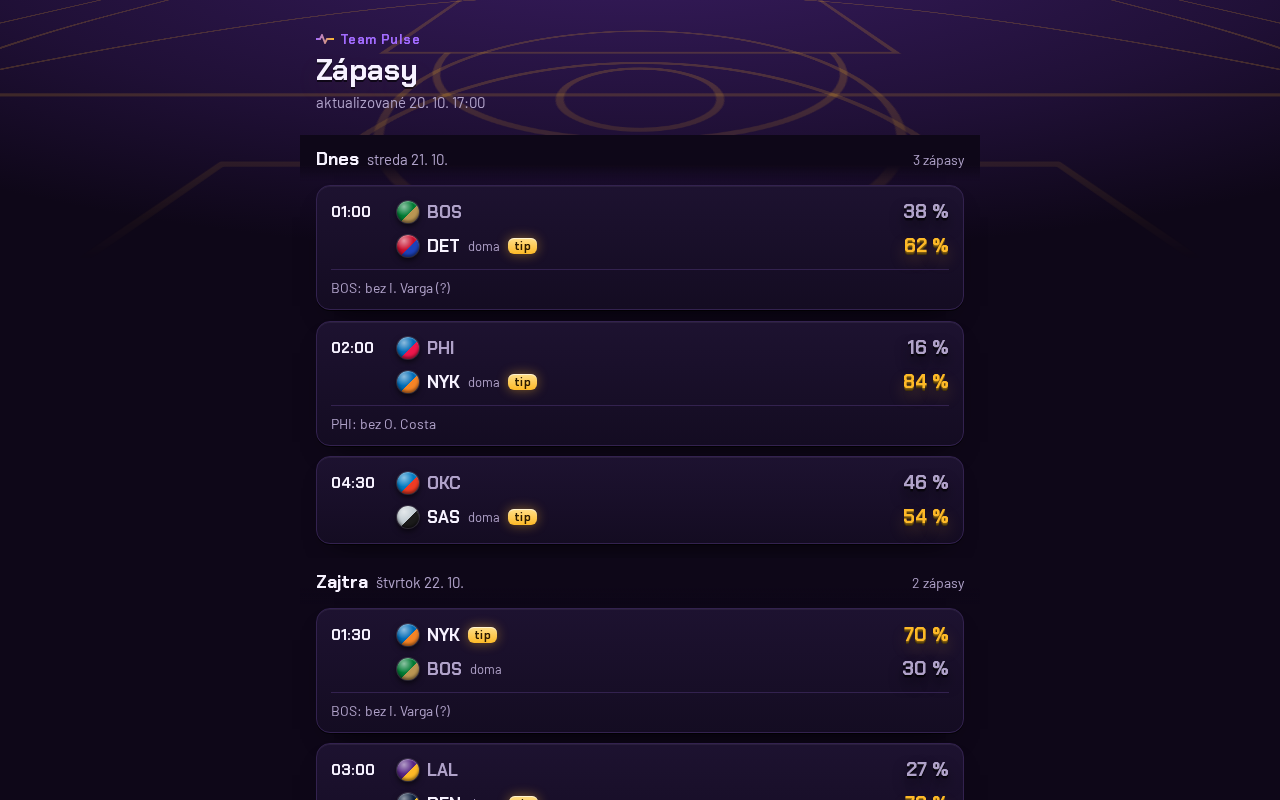
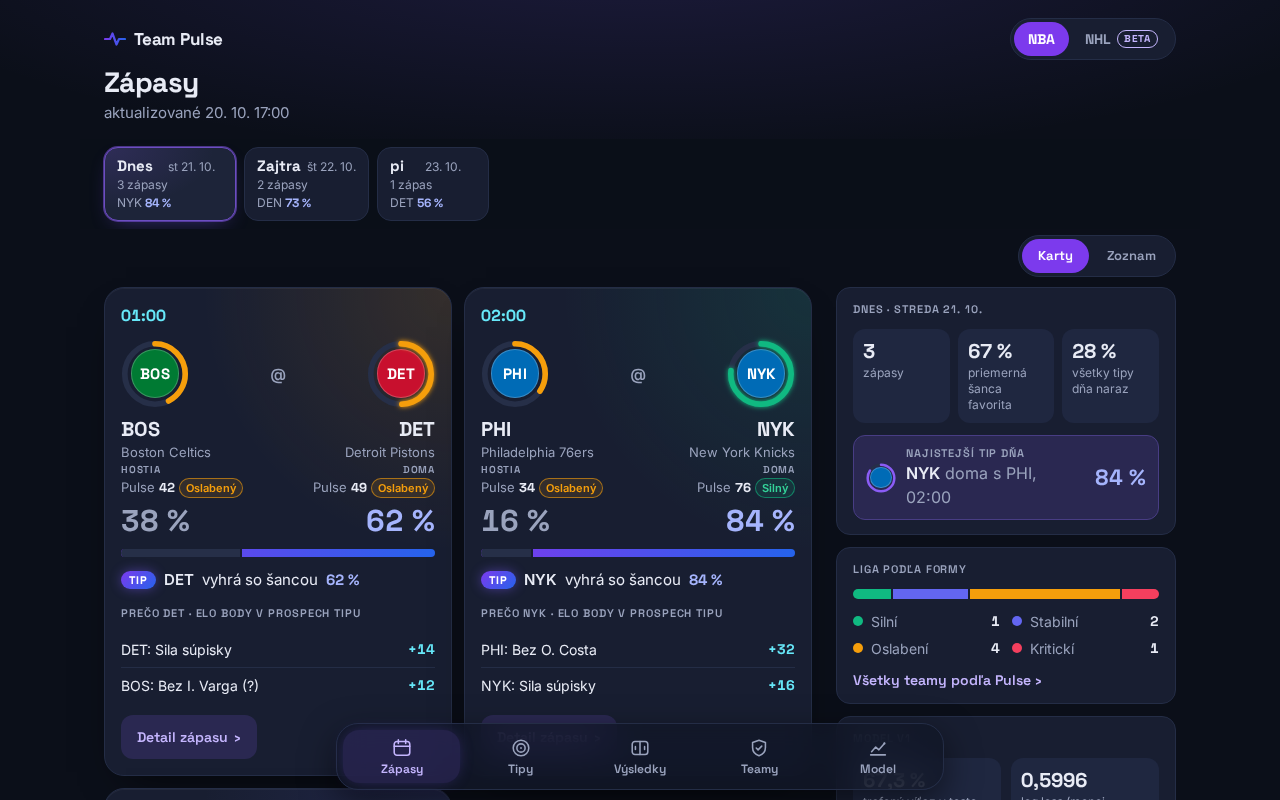
README: aktuálny stav k 20. 10. (redizajn, NHL, športy a brány, testy, screenshoty)

diff --git a/README.md b/README.md
@@ -4,22 +4,24 @@
 [![Appka](https://github.com/peterolah-qa/team-pulse/actions/workflows/app.yml/badge.svg)](https://github.com/peterolah-qa/team-pulse/actions/workflows/app.yml)
 [![Predikcie](https://github.com/peterolah-qa/team-pulse/actions/workflows/predict.yml/badge.svg)](https://github.com/peterolah-qa/team-pulse/actions/workflows/predict.yml)
 
-**V akom stave je NBA team pred zápasom?** Team Pulse to vyhodnotí v 4 úrovniach
-(Silný / Stabilný / Oslabený / Kritický), povie prečo, ako veľmi si je istý
-a čo sa zmení, ak otázny hráč nenastúpi.
+**V akom stave je team pred zápasom a kto má väčšiu šancu vyhrať?** Team Pulse to pri NBA vyhodnotí
+v 4 úrovniach (Silný / Stabilný / Oslabený / Kritický), povie prečo, ako veľmi si je istý a čo sa zmení,
+ak otázny hráč nenastúpi. NHL je v appke ako beta, F1 sa meria naostro mimo appky.
 
 **→ [peterolah-qa.github.io/team-pulse](https://peterolah-qa.github.io/team-pulse/)** (appka sa dá nainštalovať na mobil)
 
 > *In English:* a personal, non-commercial project. It is a web app (PWA) that rates each NBA team's
-> condition before a game. It uses an Elo model replicated from FiveThirtyEight, plus learned layers for
-> player availability, fatigue and roster strength. Everything runs on free data and free infrastructure.
+> condition before a game and gives the model's win probability, with NHL in beta. The NBA model is an Elo
+> model replicated from FiveThirtyEight plus learned layers for player availability, fatigue and roster
+> strength; the NHL model is Elo plus fatigue. Everything runs on free data and free infrastructure.
 > The project also serves as a QA-automation portfolio piece: see [Testing](#testovanie).
 
-![Mobilné obrazovky: Zápasy, Tipy, Výsledky, Zápas, Team](docs/screenshots/mobile.jpg)
+![Mobilné obrazovky: Zápasy (karty), Tipy, Teamy, detail NHL zápasu, Model](docs/screenshots/mobile.jpg)
 
 Team Pulse je len na orientáciu. **Neukazuje kurzy a neodkazuje na stávkové kancelárie.** „Tip“ v appke
 je team, ktorému model dáva väčšiu šancu na výhru; karta Tipy ich len zoradí podľa šance a ukáže,
-s akou šancou vyjdú všetky naraz. Nie je spojený s NBA ani s jej klubmi a nepoužíva ich logá.
+s akou šancou vyjdú všetky naraz. Nie je spojený s NBA, NHL ani s ich klubmi a nepoužíva ich logá
+(len farby dresov a skratky).
 
 ---
 
@@ -27,51 +29,83 @@ s akou šancou vyjdú všetky naraz. Nie je spojený s NBA ani s jej klubmi a ne
 
 | Obrazovka | Obsah |
 |---|---|
-| **Zápasy** | najbližšie zápasy po dňoch v našom čase: tip na víťaza, šanca oboch teamov aj ako pruh, chýbajúci hráči |
-| **Tipy** | favoriti zápasov, ktoré ešte nezačali, od najväčšej šance nadol; pri každom riadku a v grafe šanca, že vyjdú všetky tipy od prvého po daný (súčin šancí) |
+| **Zápasy** | pás dní (počet zápasov a najistejší tip dňa), zápasy ako **balíček kariet** (švih do strán, šípky, „Zápas 2 z 3“) alebo zoznam; na karte šanca, tip, Pulse teamov a najviac 4 dôvody v Elo bodoch v prospech tipu; vedľa prehľad dňa (šanca, že vyjdú všetky tipy dňa, najistejší tip, liga podľa formy, model) |
+| **Tipy** | favoriti zápasov, ktoré ešte nezačali, od najväčšej šance nadol; ukazovatele (najistejší tip, počet, všetky naraz) a graf: stĺpec = šanca tipu, čiara = šanca, že vyjdú všetky tipy od prvého po daný (súčin šancí) |
 | **Výsledky** | dohrané zápasy posledných dní so skóre a naším tipom pred zápasom (nevyšiel = červený); v detaile štatistiky hráčov |
-| **Zápas** | tip a šanca, prečo (najviac 4 dôvody), čo ak otázny hráč nenastúpi, forma teamov s grafom Pulse; vrstvy modelu po rozkliknutí |
+| **Zápas (NBA)** | tip a šanca, prečo (najviac 4 dôvody), čo ak otázny hráč nenastúpi, forma teamov s grafom Pulse; vrstvy modelu po rozkliknutí |
+| **Zápas (NHL)** | istota tipu, **prečo X %** v Elo bodoch (súčet presne sedí na zamknutú šancu), Elo trend, odpočinok a cestovanie, forma v sezóne, porovnanie s poradím v lige, vzájomné zápasy, chýbajúci hráči, zdieľanie a **Sledovať zápas** |
 | **Team** | Pulse a poradie podľa formy, najbližšie zápasy s našou šancou, posledné výsledky, súpiska so zranenými navrchu |
-| **Teamy** | liga rozdelená na Silní / Stabilní / Oslabení / Kritickí, poradie podľa Pulse |
-| **Model** | presnosť na neznámych zápasoch a kalibrácia; ako sa model učil po rozkliknutí |
+| **Teamy** | liga v 4 úrovniach Silní / Stabilní / Oslabení / Kritickí ako karusel so záložkami (na počítači 4 stĺpce); pri teame Pulse a posun oproti normálu s hlavným dôvodom |
+| **Model** | presnosť, log loss a Brier na neznámych zápasoch, kalibrácia, prínos každej vrstvy modelu; váhy po rozkliknutí |
 
-**NHL (beta)** – prepínač NBA / NHL hore: zápasy, tipy, výsledky (pp = po predĺžení, sn = po nájazdoch),
-detail zápasu (Elo, domáce prostredie, únava), liga podľa Ela a model. Tipy zamyká ranná NHL úloha na Macu
-(`archive/nhl/predictions`), GitHub Actions k nim pri každom builde pridá výsledky z API NHL
-(`team_pulse.nhl.app_data`). Označenie beta zmizne po prejdení brány G2-NHL (`docs/gate-nhl-G2.md`).
-
-Na počítači sa zoznamy rozložia do dvoch stĺpcov. Appka má tmavú aj svetlú tému podľa nastavenia systému.
+**Vzhľad („Luminous Pulse“):** tmavý analytický terminál, farba nesie význam. Úrovne formy majú vlastné
+farby (Silný smaragd, Stabilný indigo, Oslabený jantár, Kritický rubín), tip je fialovo-modrá žiara,
+nie stávková žltá. Odznak teamu je kruh vo farbách dresu so skratkou a prstencom: pri NBA Pulse, pri NHL
+šanca na výhru. Písmo Space Grotesk a Inter, číslice rovnako široké. Na počítači sú Zápasy prehľad
+v dvoch stĺpcoch. Appka má tmavú aj svetlú tému podľa nastavenia systému.
 
 **Pulse** = 50 + (Elo dnes − 1505) / 6, teda 50 znamená priemerný team. Hranice úrovní sú 70 / 50 / 30.
 Team, ktorý je dnes aspoň o 60 Elo pod svojím normálom (napr. mu chýba hviezda), padne o úroveň nižšie.
 
-![Desktop](docs/screenshots/desktop.png)
+**NHL (beta)** – prepínač NBA / NHL hore. Tipy zamyká ranná NHL úloha na Macu (`archive/nhl/predictions`),
+GitHub Actions k nim pri každom builde pridá výsledky z API NHL, zranenia z ESPN a kontext zápasu
+(`team_pulse.nhl.context`): z rozpisov klubov znova spočíta vstupy modelu a overí, že dajú presne zamknutú
+šancu, a doplní formu, odpočinok, vzájomné zápasy a štatistiky NHL (len keď počet zápasov a výhier sedí
+s rozpisom). Tlačidlo **Sledovať zápas** ukáže v appke výsledok a či tip vyšiel, keď sa zápas dohrá.
+Označenie beta zmizne po prejdení brány G2-NHL ([docs/gate-nhl-G2.md](docs/gate-nhl-G2.md)).
+
+![Počítač: Zápasy ako prehľad dňa](docs/screenshots/desktop.png)
+
+## Športy a brány
+
+Každý šport má vlastný model a vlastné brány, hranice sa stanovia pred meraním ([plán](docs/sporty.md)).
+
+| Šport | Model | Backtest (G0) | Ostré meranie (G2) | Stav |
+|---|---|---|---|---|
+| **NBA** | Elo + únava + hráči + sila súpisky | ✅ [G0](docs/gate-G0.md), [G1](docs/gate-G1.md) | 20. 10. – 2. 11. 2026, vyhodnotenie 3. 11. ([G2](docs/gate-G2.md)) | v appke |
+| **NHL** | Elo + únava | ✅ [G0-NHL](docs/gate-nhl-G0.md) | 13. – 26. 10. 2026, vyhodnotenie 27. 10. ([G2-NHL](docs/gate-nhl-G2.md)); predbežne k 20. 10. všetky kritériá splnené (51 zápasov, log loss 0,6449, hranica 0,7101) | v appke ako beta |
+| **F1** | Elo jazdca a tímu + kvalifikácia | ❌ [G0-F1](docs/gate-f1-G0.md): horší než kvalifikácia | model B naostro mimo appky, 6 pretekov 25. 10. – 6. 12. 2026 ([docs/gate-f1-shadow.md](docs/gate-f1-shadow.md)) | tip po kvalifikácii, `f1.yml` |
+| **Tipos extraliga** | hokejové Elo z NHL | – | – | čaká na súhlas SZĽH so zdrojom dát |
+
+Brány G2 vyhodnocuje skript nezávislým prepočtom z archívu, nie z reportu:
+`uv run python -m team_pulse.gate_g2 nba|nhl` → `reports/gate_g2_<šport>.md`. Počas G2 sa model,
+predikcie, archív, ranné úlohy ani `predict.yml` daného športu nemenia; appka (obrazovky) áno, len so
+zelenými testami.
 
 ## Ako to funguje
 
 ```mermaid
 flowchart LR
-  subgraph Mac["Mac (každý deň 10:00, launchd)"]
+  subgraph Mac["Mac (každé ráno, launchd)"]
     A[nba_api: výsledky, box score] --> B[Elo + hodnoty hráčov]
-    B --> C[state/state.json]
+    B --> C["state/state.json"]
+    N[API NHL: história a rozpis] --> M[NHL Elo + únava, tipy]
+    M --> T["archive/nhl/predictions"]
   end
-  C -->|git push| D
-  subgraph GH["GitHub Actions (každých 15 min)"]
-    D[ESPN: zranenia] --> E[predikcie → JSON]
-    E --> F[build appky: Vite + TypeScript]
+  C -->|"git push 10:00"| D
+  T -->|"git push 10:15"| D
+  subgraph GH["GitHub Actions (každých 15 min + cron-job.org)"]
+    D[ESPN: zranenia, výsledky] --> E[NBA predikcie + archív]
+    E --> K[NHL: výsledky, zranenia, kontext zápasu]
+    K --> F[build appky: Vite + TypeScript]
   end
   F --> G[GitHub Pages: PWA]
   H[Kontrola zdrojov, denne] -.->|chyba = e-mail| I((ja))
+  J["F1: sobota a nedeľa, f1.yml"] -.-> L["archive/f1, reports/f1_live.md"]
 ```
 
-- **Mac** robí ťažkú prácu, lebo stats.nba.com často blokuje požiadavky z cloudových serverov. Výsledkom je malý súbor stavu.
-- **GitHub Actions** každých 15 minút stiahne zranenia, prepočíta predpovede a nasadí appku.
-- **Archív predpovedí:** do 24 hodín pred zápasom cloud uloží predpoveď do `archive/predictions/`, kým zápas nezačne, prepisuje ju novšou; po začiatku sa už nemení. (GitHub plánované behy často vynecháva, preto široké okno.) Mac ráno doplní výsledky (`archive/results/`) a prepíše [reports/live.md](reports/live.md) s presnosťou, log loss a kalibráciou ostrej prevádzky.
-- **Výsledky:** na obrazovke Dnes sú dohrané zápasy posledných 3 hracích dní so skóre a naším tipom pred zápasom; v detaile štatistiky hráčov (minúty, body, doskoky, asistencie, bloky, zisky). Cloud ich berie z ESPN hneď po zápase (aj z prípravy) a ukladá do `archive/boxscores/`; ranný box score z Macu (nba_api) má prednosť.
+- **Mac** robí ťažkú prácu, lebo stats.nba.com často blokuje požiadavky z cloudových serverov. NBA úloha
+  (10:00) zapíše malý súbor stavu, NHL úloha (10:15) vyhodnotí noc a zamkne tipy na ďalšie zápasy.
+- **GitHub Actions** každých 15 minút stiahne zranenia, prepočíta predpovede a nasadí appku. Plánované behy
+  GitHubu často meškajú, preto ich každých 30 minút spúšťa aj cron-job.org (`workflow_dispatch`).
+- **Archív predpovedí:** do 24 hodín pred zápasom cloud uloží predpoveď do `archive/predictions/`, kým zápas nezačne, prepisuje ju novšou; po začiatku sa už nemení. Archív sa commitne pred buildom appky, takže chyba appky ho nepokazí. Mac ráno doplní výsledky (`archive/results/`) a prepíše [reports/live.md](reports/live.md) s presnosťou, log loss a kalibráciou ostrej prevádzky (NHL: [reports/nhl_live.md](reports/nhl_live.md)).
+- **Výsledky:** dohrané zápasy posledných dní so skóre a naším tipom pred zápasom; v detaile štatistiky hráčov (minúty, body, doskoky, asistencie, bloky, zisky). Cloud ich berie z ESPN hneď po zápase (aj z prípravy) a ukladá do `archive/boxscores/`; ranný box score z Macu (nba_api) má prednosť.
 - **Príprava:** prípravné zápasy appka ukazuje so štítkom PRÍPRAVA. Do Ela, únavy v sezóne ani do vyhodnotenia sa nerátajú; v archíve slúžia ako skúška pred sezónou.
 - **Náklady: 0 €.** Repo je verejné, Pages a Actions sú zadarmo a všetky zdroje dát sú voľné.
 
 ## Model
+
+### NBA
 
 Základ je **Elo podľa FiveThirtyEight**. Je replikovaný a overený proti ich archívu: K = 20 · (MOV + 3)^0,8 / (7,5 + 0,006 · D),
 výhoda domáceho prostredia a prenos medzi sezónami 0,75 · R + 0,25 · 1505. Nad ním sú naučené vrstvy:
@@ -96,26 +130,38 @@ Pre porovnanie: aj stávkové kancelárie trafia víťaza len v 68 – 70 % záp
 [reports/backtest.md](reports/backtest.md), [reports/learned.md](reports/learned.md) a v bránach
 [G0](docs/gate-G0.md), [G1](docs/gate-G1.md), [G3](docs/gate-G3.md).
 
+### NHL
+
+Hokejové Elo (K 6, domáca výhoda 30, prenos do sezóny 0,8) + **únava** (back-to-back, 3. zápas za 4 dni,
+odpočinok, posun pásma na východ, dĺžka výjazdu), naučené na 21 612 zápasoch. Test 2023/24 – 2025/26:
+presnosť 57,6 %, log loss 0,6713 (samotné Elo 0,6730, „vždy domáci“ 54,3 %). Hokej je náhodnejší než basketbal.
+Zamietnuté, lebo nezlepšili log loss o 0,0005: Glicko-2 namiesto Ela, očakávaný aj skutočný brankár
+([reports/nhl_learned.md](reports/nhl_learned.md), [reports/nhl_glicko.md](reports/nhl_glicko.md),
+[reports/nhl_goalies.md](reports/nhl_goalies.md)).
+
 ## Testovanie
 
-Projekt je zároveň ukážka QA automatizácie. Testuje sa model, dáta aj appka:
+Projekt je zároveň ukážka QA automatizácie. Testuje sa model, dáta, prevádzka aj appka:
 
 | Čo | Ako | Kde |
 |---|---|---|
-| Vzorce Elo | unit testy s ručne spočítanými príkladmi | `tests/test_elo.py` |
+| Vzorce Elo | unit testy s ručne spočítanými príkladmi | `tests/test_elo.py`, `tests/test_nhl_elo.py` |
 | Vlastnosti modelu | property-based testy (Hypothesis): Elo je hra s nulovým súčtom, pravdepodobnosti sú v 0 – 1 a dávajú spolu 1 | `tests/test_elo_properties.py` |
 | Replikácia | porovnanie s archívom FiveThirtyEight od sezóny 2000/01 | `tests/test_replication_538.py` |
 | Únik dát z budúcnosti | žiadny vstup nesmie byť novší ako začiatok zápasu | `tests/test_no_leakage.py` |
-| Živé zdroje | kontraktové testy ESPN a NBA na uložených odpovediach, test, že sa nikdy nepoužijú kurzy | `tests/test_live_contracts.py` |
-| Prevádzka | denná kontrola zdrojov a čerstvosti stavu, pri chybe príde e-mail | `.github/workflows/health.yml` |
-| Appka E2E | Playwright na mobile (Pixel 7) aj desktope: dni v našom čase, tip a percentá spolu 100 %, výsledky (nevyšiel = červený), navigácia, prázdne a chybové stavy, vodorovné posúvanie na 360 px | `app/tests/e2e.spec.ts` |
-| Prístupnosť | axe-core, WCAG 2.1 A + AA, na každej obrazovke 0 porušení; ovládanie klávesnicou | `app/tests/a11y.spec.ts` |
-| Vizuálna regresia | screenshoty 8 obrazoviek × 2 zariadenia, pevný čas testu | `app/tests/visual.spec.ts` |
+| Živé zdroje | kontraktové testy ESPN a NBA na uložených skutočných odpovediach, test, že sa nikdy nepoužijú kurzy; NHL a F1 rovnako na uložených odpovediach API | `tests/test_live_contracts.py`, `tests/test_nhl_*.py`, `tests/test_f1*.py` |
+| Detail NHL zápasu | rozpis → skutočná predikcia → kontext: rozpad tipu musí dať presne zamknutú šancu, odpočinok rovnaké čísla ako model; sonda na skutočných tipoch | `tests/test_nhl_context.py`, `scripts/probe_nhl_context.py` |
+| Brány G2 | vyhodnotenie nezávislým prepočtom; testy, že upravený report sa odhalí | `tests/test_gate_g2.py` |
+| Prevádzka | denná kontrola zdrojov a čerstvosti stavu, pri chybe príde e-mail; poistka, že archív tipov sa naozaj pushol | `.github/workflows/health.yml`, `predict.yml` |
+| Appka E2E | Playwright na mobile (Pixel 7) aj desktope: dni v našom čase, tip a percentá spolu 100 %, pás dní, balíček kariet (švih, šípky, klávesnica), prehľad dňa, Teamy, výsledky (nevyšiel = červený), Sledovať zápas, zdieľanie, prázdne a chybové stavy, vodorovné posúvanie na 360 px | `app/tests/e2e.spec.ts`, `screens.spec.ts`, `nhl.spec.ts` |
+| Prístupnosť | axe-core, WCAG 2.1 A + AA, 16 obrazoviek v tmavej aj svetlej téme, 0 porušení; ovládanie klávesnicou | `app/tests/a11y.spec.ts` |
+| Vizuálna regresia | screenshoty 14 obrazoviek × 2 zariadenia, pevný čas testu | `app/tests/visual.spec.ts` |
 
-Lighthouse (mobil): **Performance 100 · Accessibility 100 · Best Practices 100 · SEO 100.**
+Spolu pytest 410 testov a Playwright 147 + 28 vizuálnych. Lighthouse (mobil) pri bráne G3:
+**Performance 100 · Accessibility 100 · Best Practices 100 · SEO 100.**
 
 CI beží pri každom pushi: ruff (lint + formát), pytest, typová kontrola, build a Playwright.
-Pred každým commitom sa spustí pre-commit (ruff, kontrola privátnych kľúčov a veľkých súborov).
+Pred každým commitom sa spustí pre-commit (ruff, kontrola privátnych kľúčov, veľkých súborov a koncov riadkov).
 Na GitHube je zapnutý secret scanning s push protection.
 
 ## Spustenie lokálne
@@ -124,16 +170,19 @@ Na GitHube je zapnutý secret scanning s push protection.
 # Python časť (Python 3.12, uv)
 uv sync
 uv run pytest
-uv run python -m team_pulse.state        # stav zo stiahnutých dát
-uv run python -m team_pulse.predict      # JSON pre appku → app/public/data
+uv run python -m team_pulse.state              # NBA stav zo stiahnutých dát
+uv run python -m team_pulse.predict            # NBA JSON pre appku → app/public/data
+uv run python -m team_pulse.nhl.daily          # NHL: vyhodnotenie noci + tipy (z Macu)
+uv run python -m team_pulse.nhl.app_data       # NHL JSON pre appku → app/public/data/nhl
+uv run python -m team_pulse.gate_g2 nba        # vyhodnotenie brány G2 (aj nhl)
 
 # appka (Node 22)
 cd app
 npm install
-npx playwright install chromium          # len prvýkrát, pre testy
-npm run dev                              # http://localhost:5173
-npm test                                 # E2E + prístupnosť
-npm run test:visual                      # vizuálna regresia (screenshoty sú z Linuxu/CI)
+npx playwright install chromium                # len prvýkrát, pre testy
+npm run dev                                    # http://localhost:5173
+npm test                                       # E2E + prístupnosť
+npm run test:visual                            # vizuálna regresia (screenshoty sú z Linuxu/CI)
 ```
 
 Ranné úlohy na Macu (launchd): NBA `bash scripts/install_daily.sh` (10:00), NHL tipy
@@ -142,37 +191,48 @@ Ranné úlohy na Macu (launchd): NBA `bash scripts/install_daily.sh` (10:00), NH
 ## Štruktúra
 
 ```
-src/team_pulse/     model (elo, players, schedule, learned), stav, predikcie, denná úloha
-src/team_pulse/live ESPN zranenia a výsledky, NBA rozpis, párovanie mien
-tests/              pytest + Hypothesis + fixtures živých zdrojov
-app/                PWA: Vite + TypeScript bez frameworku, Playwright testy
-models/v1.json      naučený model (váhy, kalibrácia, metriky)
-state/state.json    denný stav z Macu
-archive/            posledné predpovede pred zápasmi a výsledky z ESPN (cloud), výsledky pre report (Mac)
-reports/, docs/     backtest, naučené váhy, vyhodnotenia brán
+src/team_pulse/      NBA model (elo, players, schedule, learned), stav, predikcie, denná úloha, brány G2
+src/team_pulse/live  ESPN zranenia a výsledky, NBA rozpis, párovanie mien
+src/team_pulse/nhl   NHL: história, Elo + únava, tipy, archív, dáta a kontext zápasu pre appku
+src/team_pulse/f1    F1: Jolpica, model B, tip po kvalifikácii, vyhodnotenie
+tests/               pytest + Hypothesis + uložené odpovede živých zdrojov
+app/                 PWA: Vite + TypeScript bez frameworku, Playwright testy
+models/              naučené modely (v1.json NBA, nhl_v1.json), váhy, kalibrácia, metriky
+state/               denný stav NBA z Macu, stav F1
+archive/             zamknuté tipy pred zápasmi a výsledky (NBA, nhl/, f1/)
+reports/, docs/      backtesty, ostré merania, brány, denník projektu (docs/journal.md)
 ```
 
 ## Dáta
 
-Voľné zdroje: [nba_api](https://github.com/swar/nba_api) (stats.nba.com), verejné endpointy ESPN (zranenia, výsledky)
-a archív Elo FiveThirtyEight ([Neil Paine](https://github.com/Neil-Paine-1/NBA-elo)).
-Stiahnuté dáta sa necommitujú. Mená hráčov v testoch a na screenshotoch sú vymyslené.
+Voľné zdroje: [nba_api](https://github.com/swar/nba_api) (stats.nba.com), verejné endpointy ESPN (zranenia, výsledky),
+API NHL (`api-web.nhle.com`, `api.nhle.com/stats`), [Jolpica](https://github.com/jolpica/jolpica-f1) pre F1
+(CC BY-NC-SA 4.0) a archív Elo FiveThirtyEight ([Neil Paine](https://github.com/Neil-Paine-1/NBA-elo)).
+Stiahnuté dáta sa necommitujú, len malé uložené odpovede pre testy. Mená hráčov v testoch a na screenshotoch
+sú vymyslené, čísla na screenshotoch sú testovacie.
 
 ## Obmedzenia
 
 - Backtest pozná absencie len z box score (kto nehral), nie zo skutočného injury reportu pred zápasom.
-- Kalibrácia je najslabšia v pásme 60 – 70 %.
+- Kalibrácia NBA je najslabšia v pásme 60 – 70 %.
 - Začiatok sezóny je pre model ťažší: v backteste mal v prvých 14 dňoch log loss 0,634 (celá sezóna 0,597),
   lebo Elo prenesené cez leto a nové súpisky sú menej presné (`reports/g2_reference.md`).
+- NHL model nepozná brankára ani zranenia (zranenia sú v appke len informácia), štartujúci brankár
+  ráno pri zamykaní tipov nie je známy.
+- Sledovať zápas a upozornenia fungujú v appke (pamäť v zariadení), nie ako push notifikácie mimo nej.
 
 ## Plán
 
 - [x] 0a – replikácia Elo (G0) · [x] 0b – vrstvy B, C, sila súpisky (G1) · [x] 1 – dátový agent a stav
-- [x] 2 – PWA appka (G3)
-- [ ] G2 – 14 dní ostrej prevádzky 20. 10. – 2. 11. 2026, kritériá vopred v [docs/gate-G2.md](docs/gate-G2.md)
-- [x] upozornenia v appke na dohrané zápasy
-- [ ] ďalšie športy: NHL (v appke ako beta, G2-NHL 13. – 26. 10.), F1, Tipos extraliga – [plán](docs/sporty.md)
+- [x] 2 – PWA appka (G3) · [x] upozornenia v appke na dohrané zápasy
+- [ ] G2 NBA – 14 dní ostrej prevádzky 20. 10. – 2. 11. 2026, kritériá vopred v [docs/gate-G2.md](docs/gate-G2.md)
+- [x] NHL v appke ako beta · [ ] G2-NHL 13. – 26. 10. 2026 (vyhodnotenie 27. 10.)
+- [ ] F1 – model B naostro mimo appky do 6. 12. 2026 · [ ] Tipos extraliga – čaká na súhlas SZĽH
+- [x] redizajn: vzhľad, detail NHL, pás dní, karty, prehľad dňa, Tipy, Teamy, Model
+- [ ] redizajn: detail NBA, Moje teamy, Bilancia tipov naostro, Sledovať pre NBA, nová ikona
 - [ ] neskôr: Supabase (história predpovedí)
+
+Čo sa kedy urobilo a prečo: [docs/journal.md](docs/journal.md). Úlohy: boardy „Team Pulse“ a „Team Pulse – športy“.
 
 ---
 

diff --git a/docs/journal.md b/docs/journal.md
@@ -6,6 +6,11 @@ Denník vznikol 13. 10. 2026, staršie záznamy sú doplnené spätne z commitov
 
 ## 20. 10. 2026
 
+- **README aktualizovaný** na stav k 20. 10.: NBA aj NHL v appke, nový vzhľad a obrazovky (pás dní, karty,
+  prehľad dňa, detail NHL, Teamy v 4 úrovniach, Model), tabuľka športov a brán (NBA G2, NHL G2 predbežne
+  splnené, F1 model B mimo appky, extraliga čaká na SZĽH), NHL model, testy (pytest 410, Playwright 147 + 28),
+  štruktúra, zdroje dát, obmedzenia, plán. Nové screenshoty `docs/screenshots/mobile.jpg` a `desktop.png`
+  (testovacie dáta appky, pevný čas testov). Lighthouse uvedený ako výsledok brány G3 (po redizajne nemeraný).
 - **Redizajn – celý ekosystém obrazoviek (Petrovo zadanie 11:58).** Smer: analytický terminál (Bloomberg,
   FiveThirtyEight), nie stávková kancelária. Peter rozhodol: karusely vnútri obrazoviek (medzi záložkami len dok),
   Zápasy na mobile ako balíček kariet s prepínačom na zoznam, všetko v jednom kroku so screenshotmi pred patchom.
